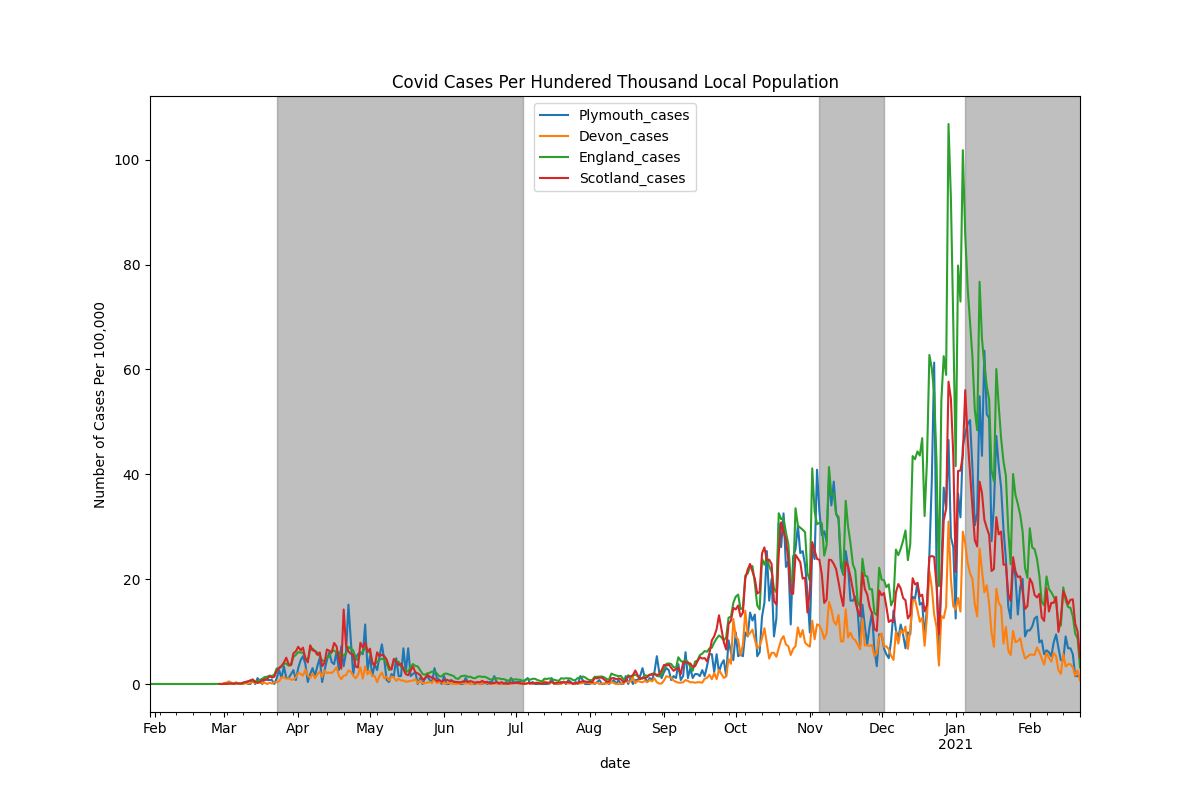
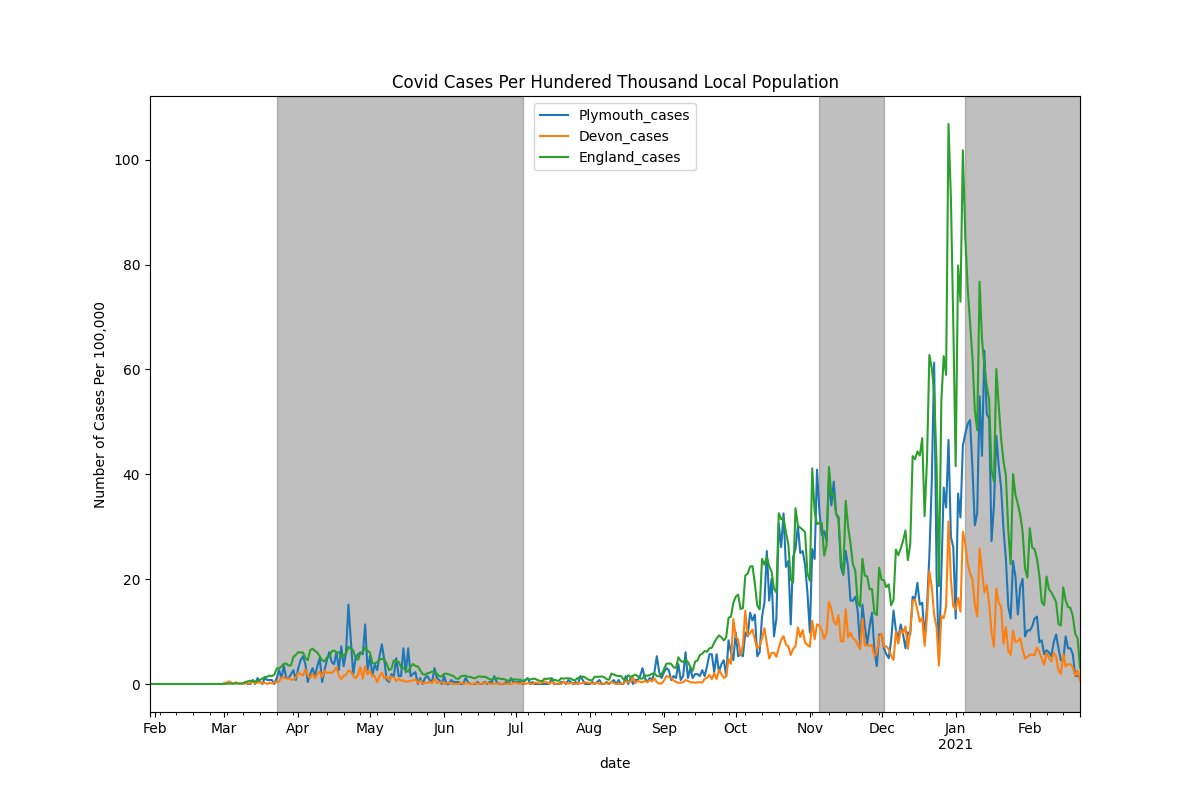
update-data

diff --git a/main.py b/main.py
@@ -21,7 +21,7 @@ def init_urls():
 	url['Plymouth'] = 'https://api.coronavirus.data.gov.uk/v1/data?filters=areaType=utla;areaName=Plymouth&structure=%7B%22areaType%22:%22areaType%22,%22areaName%22:%22areaName%22,%22areaCode%22:%22areaCode%22,%22date%22:%22date%22,%22newCasesBySpecimenDate%22:%22newCasesBySpecimenDate%22,%22cumCasesBySpecimenDate%22:%22cumCasesBySpecimenDate%22%7D&format=json'
 	url['Devon'] = 'https://api.coronavirus.data.gov.uk/v1/data?filters=areaType=utla;areaName=Devon&structure=%7B%22areaType%22:%22areaType%22,%22areaName%22:%22areaName%22,%22areaCode%22:%22areaCode%22,%22date%22:%22date%22,%22newCasesBySpecimenDate%22:%22newCasesBySpecimenDate%22,%22cumCasesBySpecimenDate%22:%22cumCasesBySpecimenDate%22%7D&format=json'
 	url['England'] = 'https://api.coronavirus.data.gov.uk/v1/data?filters=areaType=nation;areaName=England&structure=%7B%22areaType%22:%22areaType%22,%22areaName%22:%22areaName%22,%22areaCode%22:%22areaCode%22,%22date%22:%22date%22,%22newCasesBySpecimenDate%22:%22newCasesBySpecimenDate%22,%22cumCasesBySpecimenDate%22:%22cumCasesBySpecimenDate%22%7D&format=json'
-	url['Scotland'] = 'https://api.coronavirus.data.gov.uk/v1/data?filters=areaType=nation;areaName=Scotland&structure=%7B%22areaType%22:%22areaType%22,%22areaName%22:%22areaName%22,%22areaCode%22:%22areaCode%22,%22date%22:%22date%22,%22newCasesBySpecimenDate%22:%22newCasesBySpecimenDate%22,%22cumCasesBySpecimenDate%22:%22cumCasesBySpecimenDate%22%7D&format=json'
+	# url['Scotland'] = 'https://api.coronavirus.data.gov.uk/v1/data?filters=areaType=nation;areaName=Scotland&structure=%7B%22areaType%22:%22areaType%22,%22areaName%22:%22areaName%22,%22areaCode%22:%22areaCode%22,%22date%22:%22date%22,%22newCasesBySpecimenDate%22:%22newCasesBySpecimenDate%22,%22cumCasesBySpecimenDate%22:%22cumCasesBySpecimenDate%22%7D&format=json'
 	# url['London'] = 'https://api.coronavirus.data.gov.uk/v1/data?filters=areaType=region;areaName=London&structure=%7B%22areaType%22:%22areaType%22,%22areaName%22:%22areaName%22,%22areaCode%22:%22areaCode%22,%22date%22:%22date%22,%22newCasesBySpecimenDate%22:%22newCasesBySpecimenDate%22,%22cumCasesBySpecimenDate%22:%22cumCasesBySpecimenDate%22%7D&format=json'
 
 	population['Plymouth'] = 264200
